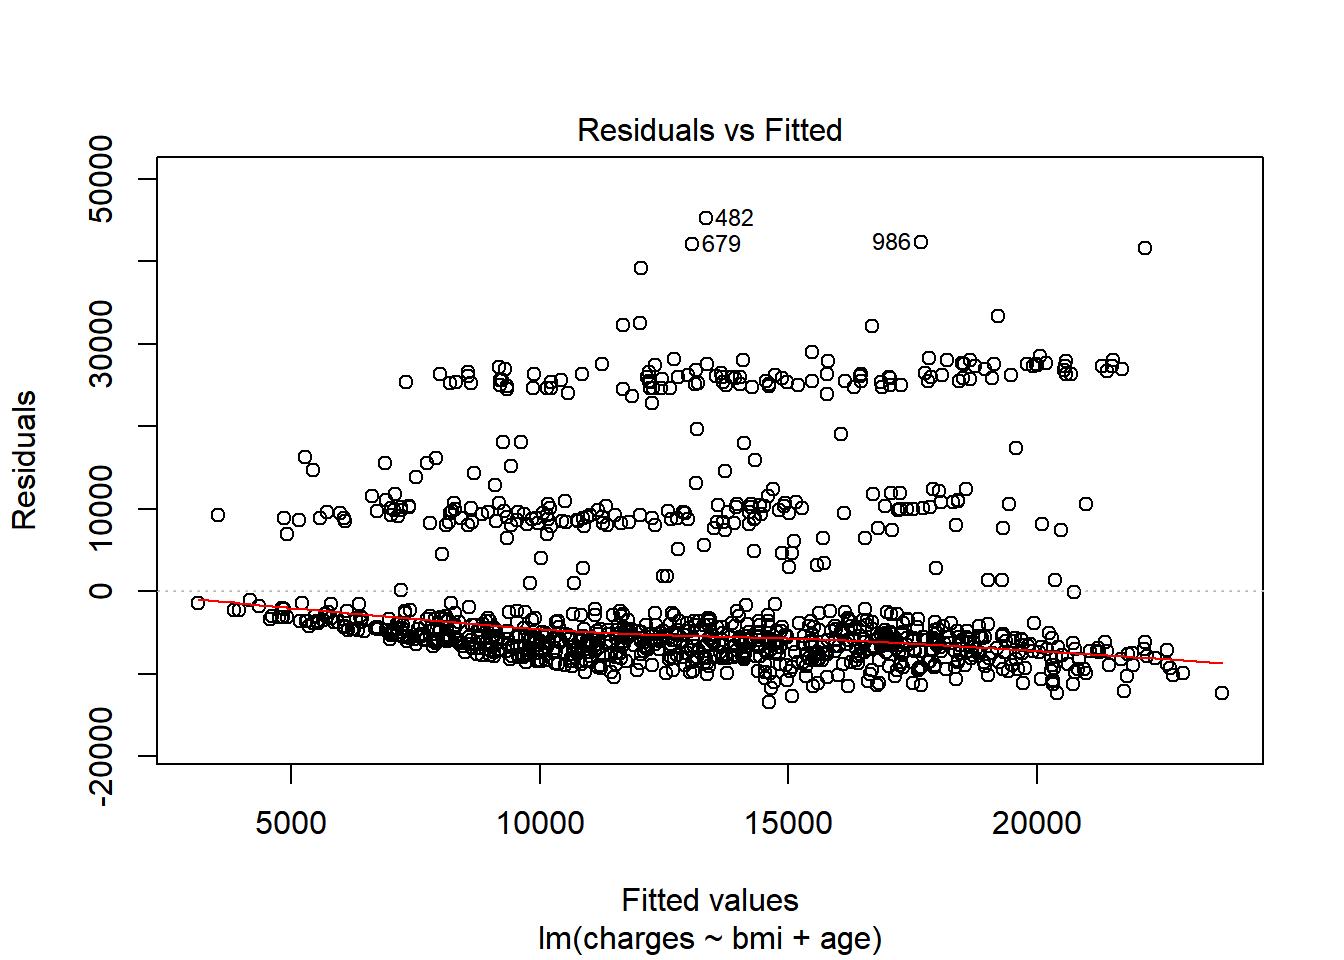
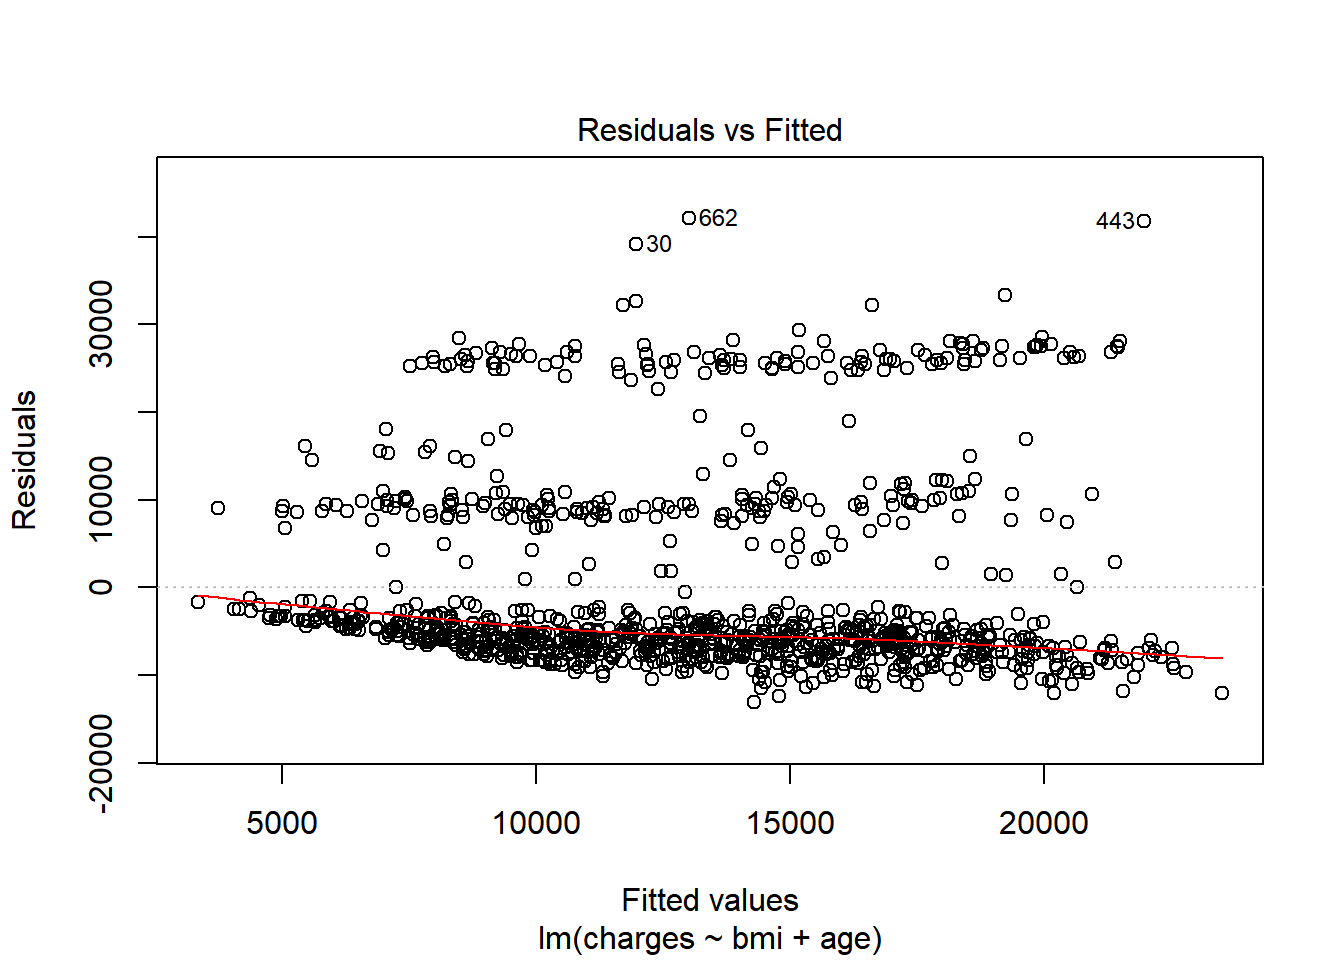
edit link

diff --git a/docs/introduction-to-modeling.html b/docs/introduction-to-modeling.html
@@ -368,10 +368,10 @@ To solve for <span class="math inline">\(\mathbf{\beta}\)</span>, we first need 
 <a class="sourceLine" id="cb188-3" title="3">}</a>
 <a class="sourceLine" id="cb188-4" title="4"></a>
 <a class="sourceLine" id="cb188-5" title="5"><span class="kw">get_rmse</span>(pred, test<span class="op">$</span>charges)</a></code></pre></div>
-<pre><code>## [1] 11425.96</code></pre>
+<pre><code>## [1] 11985.74</code></pre>
 <p>The above number does not tell us if this is a good model or not by itself. We need a comparison. The fastest check is to compare against a prediction of the mean. In other words, all values of the <code>y_hat</code> are the average of <code>charges</code></p>
 <div class="sourceCode" id="cb190"><pre class="sourceCode r"><code class="sourceCode r"><a class="sourceLine" id="cb190-1" title="1"><span class="kw">get_rmse</span>(<span class="kw">mean</span>(test<span class="op">$</span>charges), test<span class="op">$</span>charges)</a></code></pre></div>
-<pre><code>## [1] 11922.39</code></pre>
+<pre><code>## [1] 12470.48</code></pre>
 <p>The RMSE is <strong>higher</strong> (worse) when using just the mean, which is what we expect. <strong>If you ever fit a model and get an error which is worse than the average prediction, something must be wrong.</strong></p>
 <p>The next test is to see if any assumptions have been violated.</p>
 <p>First, is there a pattern in the residuals? If there is, this means that the model is missing key information. For the model below, this is a <strong>yes</strong>, which means that this is a bad model. Because this is just for illustration, I’m going to continue using it, however.</p>
@@ -415,24 +415,24 @@ Figure 8.2: Normal Q-Q
 <tr class="odd">
 <td align="left">(Intercept)</td>
 <td align="right">1744.1</td>
-<td align="right">4200.2</td>
+<td align="right">4393.2</td>
 </tr>
 <tr class="even">
 <td align="left">bmi</td>
 <td align="right">51.4</td>
-<td align="right">125.7</td>
+<td align="right">124.0</td>
 </tr>
 <tr class="odd">
 <td align="left">age</td>
 <td align="right">22.3</td>
-<td align="right">49.0</td>
+<td align="right">51.7</td>
 </tr>
 </tbody>
 </table>
 <p>All interpretations should be based on the model which was trained on the entire data set. Obviously, this only makes a difference if you are interpreting the precise values of the coefficients. If you are just looking at which variables are included, or at the size and sign of the coefficients, then this would not change.</p>
 <div class="sourceCode" id="cb195"><pre class="sourceCode r"><code class="sourceCode r"><a class="sourceLine" id="cb195-1" title="1"><span class="kw">coefficients</span>(model)</a></code></pre></div>
 <pre><code>## (Intercept)         bmi         age 
-##  -6474.2174    309.3154    259.0166</code></pre>
+##  -6018.2263    294.3822    259.7529</code></pre>
 <p>Translating the above into an equation we have</p>
 <p><span class="math display">\[\hat{y_i} = -6,424.80 + 332.97 \space\text{bmi} + 241.93\space \text{age}\]</span></p>
 <p>For example, if a patient has <code>bmi = 27.9</code> and <code>age = 19</code> then predicted value is</p>
@@ -494,7 +494,7 @@ gitbook.start({
 "size": 2
 },
 "edit": {
-"link": "https://github.com/rstudio/bookdown-demo/edit/master/05-linear-models.Rmd",
+"link": "https://github.com/sdcastillo/PA-R-Study-Manual/edit/master/05-linear-models.Rmd",
 "text": "Edit"
 },
 "history": {

diff --git a/docs/tree-based-models.html b/docs/tree-based-models.html
@@ -324,10 +324,10 @@ code span.wa { color: #8f5902; font-weight: bold; font-style: italic; } /* Warni
 ##   nsplit      CP xerror
 ##    &lt;dbl&gt;   &lt;dbl&gt;  &lt;dbl&gt;
 ## 1      0 0.620    1.00 
-## 2      1 0.144    0.381
-## 3      2 0.0637   0.238
-## 4      3 0.00967  0.176
-## 5      4 0.00784  0.170
+## 2      1 0.144    0.383
+## 3      2 0.0637   0.239
+## 4      3 0.00967  0.177
+## 5      4 0.00784  0.171
 ## 6      5 0.00712  0.166</code></pre>
 <p>As more splits are added, the cost continues to decrease, reaches a minimum, and then begins to increase.</p>
 <p><img src="06-tree-based-models_files/figure-html/unnamed-chunk-6-1.png" width="672" /></p>
@@ -341,12 +341,12 @@ code span.wa { color: #8f5902; font-weight: bold; font-style: italic; } /* Warni
 <pre><code>## # A tibble: 6 x 3
 ##   nsplit       CP xerror
 ##    &lt;dbl&gt;    &lt;dbl&gt;  &lt;dbl&gt;
-## 1     18 0.000910  0.149
-## 2     13 0.00134   0.150
-## 3     19 0.000837  0.150
-## 4     33 0.000549  0.150
-## 5     16 0.00105   0.150
-## 6     29 0.000575  0.150</code></pre>
+## 1     17 0.000913  0.151
+## 2     18 0.000910  0.151
+## 3     19 0.000837  0.151
+## 4      7 0.00196   0.152
+## 5      8 0.00190   0.153
+## 6     22 0.000759  0.153</code></pre>
 <p>The SOA will give you code to find the lowest CP value such as below. This may or may not be useful depending on if they are asking for predictive performance or interpretability.</p>
 <div class="sourceCode" id="cb243"><pre class="sourceCode r"><code class="sourceCode r"><a class="sourceLine" id="cb243-1" title="1">pruned_tree &lt;-<span class="st"> </span><span class="kw">prune</span>(tree,</a>
 <a class="sourceLine" id="cb243-2" title="2">                     <span class="dt">cp =</span> tree<span class="op">$</span>cptable[<span class="kw">which.min</span>(tree<span class="op">$</span>cptable[, <span class="st">&quot;xerror&quot;</span>]), <span class="st">&quot;CP&quot;</span>])</a></code></pre></div>
@@ -886,7 +886,7 @@ gitbook.start({
 "size": 2
 },
 "edit": {
-"link": "https://github.com/rstudio/bookdown-demo/edit/master/06-tree-based-models.Rmd",
+"link": "https://github.com/sdcastillo/PA-R-Study-Manual/edit/master/06-tree-based-models.Rmd",
 "text": "Edit"
 },
 "history": {

diff --git a/docs/data-manipulation.html b/docs/data-manipulation.html
@@ -724,7 +724,7 @@ gitbook.start({
 "size": 2
 },
 "edit": {
-"link": "https://github.com/rstudio/bookdown-demo/edit/master/03-data-manipulation.Rmd",
+"link": "https://github.com/sdcastillo/PA-R-Study-Manual/edit/master/03-data-manipulation.Rmd",
 "text": "Edit"
 },
 "history": {

diff --git a/docs/getting-started.html b/docs/getting-started.html
@@ -319,7 +319,7 @@ gitbook.start({
 "size": 2
 },
 "edit": {
-"link": "https://github.com/rstudio/bookdown-demo/edit/master/01-getting-started.Rmd",
+"link": "https://github.com/sdcastillo/PA-R-Study-Manual/edit/master/01-getting-started.Rmd",
 "text": "Edit"
 },
 "history": {

diff --git a/docs/generalized-linear-models-glms.html b/docs/generalized-linear-models-glms.html
@@ -481,7 +481,7 @@ gitbook.start({
 "size": 2
 },
 "edit": {
-"link": "https://github.com/rstudio/bookdown-demo/edit/master/05-linear-models.Rmd",
+"link": "https://github.com/sdcastillo/PA-R-Study-Manual/edit/master/05-linear-models.Rmd",
 "text": "Edit"
 },
 "history": {

diff --git a/docs/logistic-regression.html b/docs/logistic-regression.html
@@ -497,7 +497,7 @@ gitbook.start({
 "size": 2
 },
 "edit": {
-"link": "https://github.com/rstudio/bookdown-demo/edit/master/05-linear-models.Rmd",
+"link": "https://github.com/sdcastillo/PA-R-Study-Manual/edit/master/05-linear-models.Rmd",
 "text": "Edit"
 },
 "history": {

diff --git a/docs/penalized-linear-models.html b/docs/penalized-linear-models.html
@@ -337,7 +337,7 @@ gitbook.start({
 "size": 2
 },
 "edit": {
-"link": "https://github.com/rstudio/bookdown-demo/edit/master/05-linear-models.Rmd",
+"link": "https://github.com/sdcastillo/PA-R-Study-Manual/edit/master/05-linear-models.Rmd",
 "text": "Edit"
 },
 "history": {

diff --git a/docs/r-programming.html b/docs/r-programming.html
@@ -588,7 +588,7 @@ gitbook.start({
 "size": 2
 },
 "edit": {
-"link": "https://github.com/rstudio/bookdown-demo/edit/master/02-r-programming.Rmd",
+"link": "https://github.com/sdcastillo/PA-R-Study-Manual/edit/master/02-r-programming.Rmd",
 "text": "Edit"
 },
 "history": {

diff --git a/docs/visualization.html b/docs/visualization.html
@@ -313,7 +313,7 @@ gitbook.start({
 "size": 2
 },
 "edit": {
-"link": "https://github.com/rstudio/bookdown-demo/edit/master/04-visualization.Rmd",
+"link": "https://github.com/sdcastillo/PA-R-Study-Manual/edit/master/04-visualization.Rmd",
 "text": "Edit"
 },
 "history": {

diff --git a/docs/index.html b/docs/index.html
@@ -306,7 +306,7 @@ gitbook.start({
 "size": 2
 },
 "edit": {
-"link": "https://github.com/rstudio/bookdown-demo/edit/master/index.Rmd",
+"link": "https://github.com/sdcastillo/PA-R-Study-Manual/edit/master/index.Rmd",
 "text": "Edit"
 },
 "history": {

diff --git a/docs/the-exam.html b/docs/the-exam.html
@@ -289,7 +289,7 @@ gitbook.start({
 "size": 2
 },
 "edit": {
-"link": "https://github.com/rstudio/bookdown-demo/edit/master/index.Rmd",
+"link": "https://github.com/sdcastillo/PA-R-Study-Manual/edit/master/index.Rmd",
 "text": "Edit"
 },
 "history": {

diff --git a/docs/05-linear-models.md b/docs/05-linear-models.md
@@ -182,7 +182,7 @@ get_rmse(pred, test$charges)
 ```
 
 ```
-## [1] 11425.96
+## [1] 11985.74
 ```
 
 The above number does not tell us if this is a good model or not by itself.  We need a comparison.  The fastest check is to compare against a prediction of the mean.  In other words, all values of the `y_hat` are the average of `charges`
@@ -193,7 +193,7 @@ get_rmse(mean(test$charges), test$charges)
 ```
 
 ```
-## [1] 11922.39
+## [1] 12470.48
 ```
 
 The RMSE is **higher** (worse) when using just the mean, which is what we expect.  **If you ever fit a model and get an error which is worse than the average prediction, something must be wrong.**
@@ -245,9 +245,9 @@ testing <- lm(data = test,
 
 |term        | full_data_std_error| test_data_std_error|
 |:-----------|-------------------:|-------------------:|
-|(Intercept) |              1744.1|              4200.2|
-|bmi         |                51.4|               125.7|
-|age         |                22.3|                49.0|
+|(Intercept) |              1744.1|              4393.2|
+|bmi         |                51.4|               124.0|
+|age         |                22.3|                51.7|
 
 All interpretations should be based on the model which was trained on the entire data set.  Obviously, this only makes a difference if you are interpreting the precise values of the coefficients.  If you are just looking at which variables are included, or at the size and sign of the coefficients, then this would not change.
 
@@ -258,7 +258,7 @@ coefficients(model)
 
 ```
 ## (Intercept)         bmi         age 
-##  -6474.2174    309.3154    259.0166
+##  -6018.2263    294.3822    259.7529
 ```
 
 Translating the above into an equation we have
